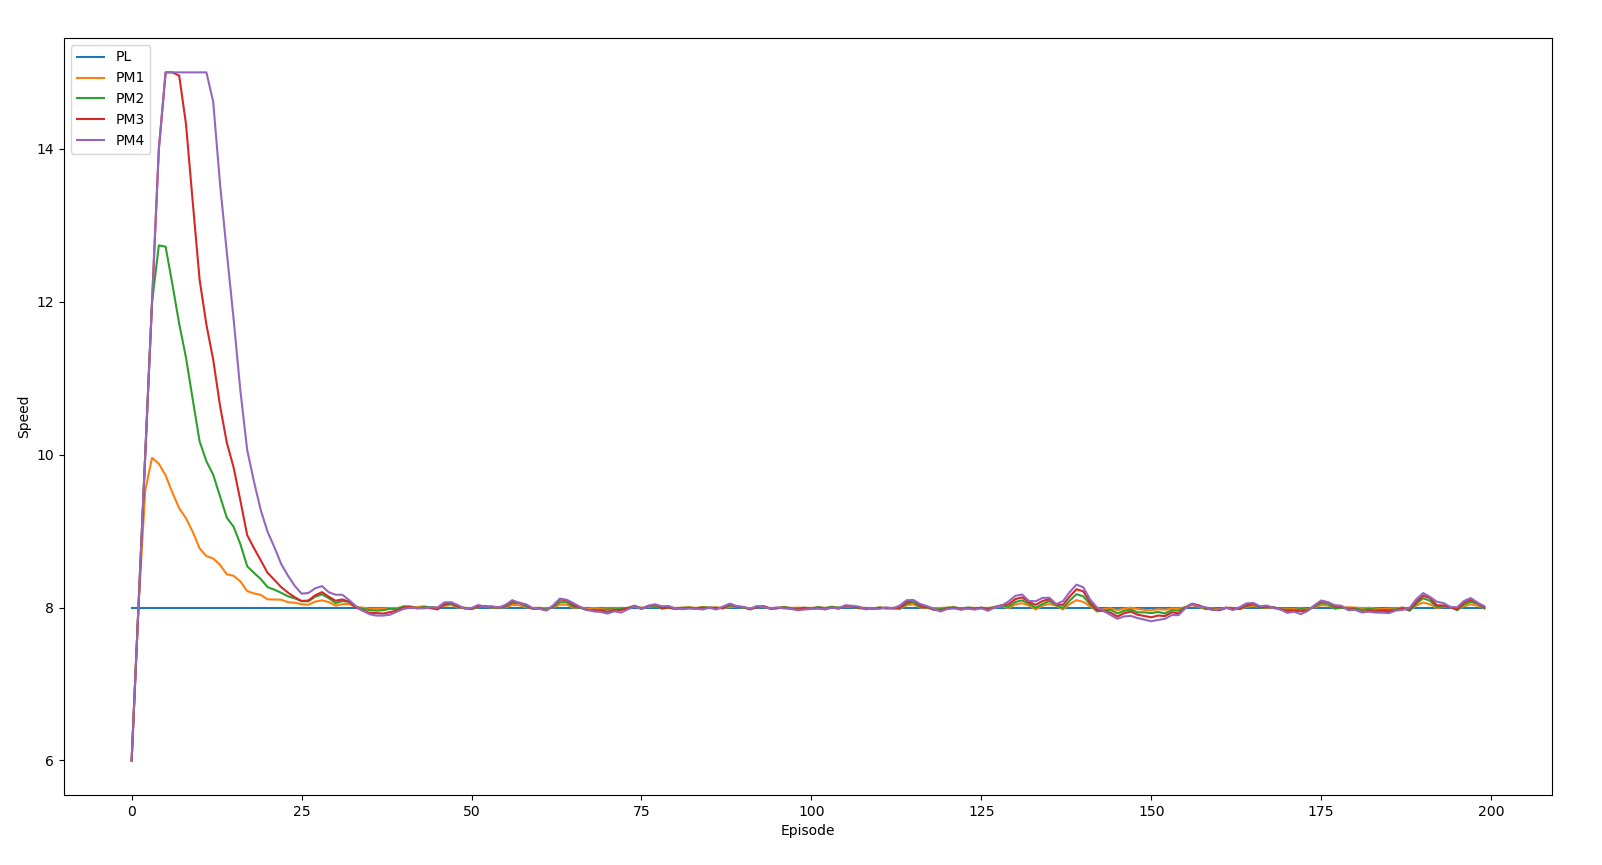
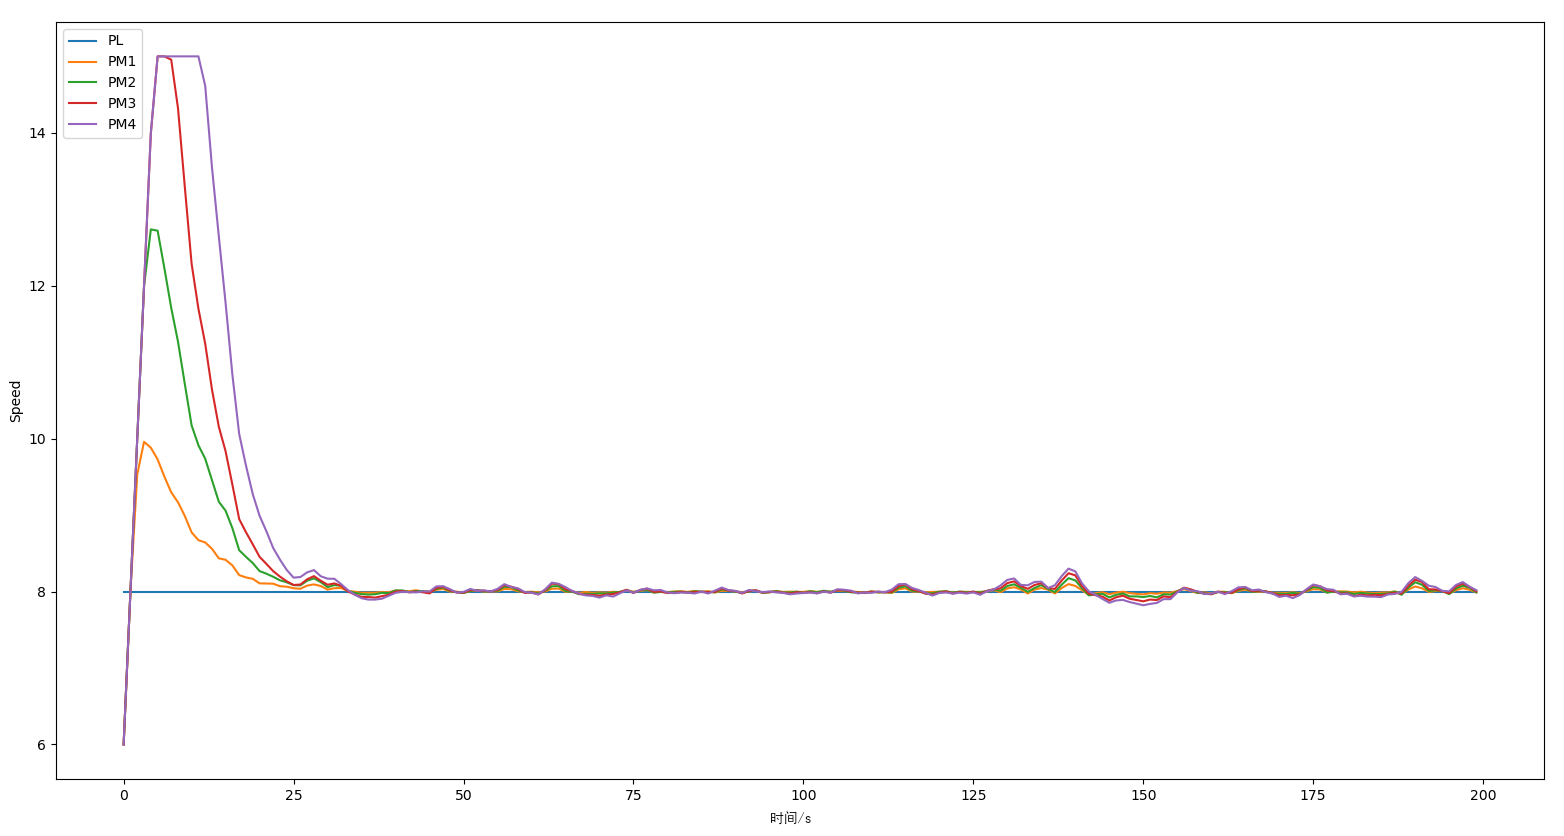
1

Changed region(s): [[0.0307, 0.0311, 0.9514, 0.8708], [0.0307, 0.8708, 0.9821, 0.9952], [0.0, 0.4665, 0.0307, 0.5287]]

diff --git a/DDPG_Net.py b/DDPG_Net.py
@@ -11,7 +11,7 @@ tf.set_random_seed(1)
 
 #####################  hyper parameters  ####################
 
-MAX_EPISODES = 500
+MAX_EPISODES = 1000
 MAX_EP_STEPS = 200
 LR_A = 0.001    # learning rate for actor
 LR_C = 0.001    # learning rate for critic
@@ -263,7 +263,7 @@ for i in range(MAX_EPISODES):
         # Add exploration noise
 
         # 第一队辆车
-        Env1.vl = random.uniform(9,12)
+        # Env1.vl = random.uniform(9,12)
         a1 = actor.choose_action(s1)
         a1 = np.clip(np.random.normal(a1, var), -2, 2)    # add randomness to action selection for exploration
         s1, r1, done1 = PreCar(a1,s1,Env1)
@@ -272,12 +272,12 @@ for i in range(MAX_EPISODES):
         # if j == MAX_EP_STEPS-1 or done1:
             # print("ENV1"'Episode:', i, ' Reward: %i' % int(ep_reward[0]/j), 'Explore: %.2f' % var, 'step: ',j,'speed: ',Env1.vm,'observation: ',Env1.observation)
             break
-        if i == 499:
+        if i == 999:
             position_step[0].append(Env1.pl)
             speed_step[0].append(Env1.vl)
             position_step[1].append(Env1.pm)
             speed_step[1].append(Env1.vm)
-        if i == 499:
+        if i == 999:
             position_step[2].append(Env2.pm)
             speed_step[2].append(Env2.vm)
         # 第二队辆车
@@ -292,7 +292,7 @@ for i in range(MAX_EPISODES):
             # print('Episode:', i, ' Reward: %i' % int(ep_reward[1]/j), 'Explore: %.2f' % var, 'step: ',j,'speed: ',
             #       Env2.vm,'observation: ',Env2.observation)
             break
-        if i == 499:
+        if i == 999:
             position_step[3].append(Env3.pm)
             speed_step[3].append(Env3.vm)
         # 第三队辆车
@@ -307,7 +307,7 @@ for i in range(MAX_EPISODES):
         #     print('Episode:', i, ' Reward: %i' % int(ep_reward[2] / j), 'Explore: %.2f' % var, 'step: ', j, 'speed: ',
         #           Env3.vm, 'observation: ', Env3.observation)
             break
-        if i == 499:
+        if i == 999:
             position_step[4].append(Env4.pm)
             speed_step[4].append(Env4.vm)
         # 第四队辆车
@@ -326,7 +326,8 @@ for i in range(MAX_EPISODES):
     # if i % 10 == 0:
     #     reward.append(ep_reward/j)
 
-
+plt.rcParams['font.sans-serif'] = [u'SimHei']
+plt.rcParams['axes.unicode_minus'] = False
 plt.plot(np.arange(len(position_step[0])), position_step[0])
 plt.plot(np.arange(len(position_step[1])), position_step[1])
 plt.plot(np.arange(len(position_step[2])), position_step[2])
@@ -334,7 +335,7 @@ plt.plot(np.arange(len(position_step[3])), position_step[3])
 plt.plot(np.arange(len(position_step[4])), position_step[4])
 plt.legend(['PL','PM1','PM2','PM3','PM4'], loc = 'upper left')
 plt.ylabel("Position")
-plt.xlabel("Episode")
+plt.xlabel("时间/s")
 plt.show()
 
 
@@ -345,7 +346,7 @@ plt.plot(np.arange(len(speed_step[3])), speed_step[3])
 plt.plot(np.arange(len(speed_step[4])), speed_step[4])
 plt.legend(['PL','PM1','PM2','PM3','PM4'], loc = 'upper left')
 plt.ylabel("Speed")
-plt.xlabel("Episode")
+plt.xlabel("时间/s")
 plt.show()
 
 # plt.plot(np.arange(len(reward)),reward)

diff --git a/DDPG_env3.py b/DDPG_env3.py
@@ -258,9 +258,9 @@ for i in range(MAX_EPISODES):
         a = np.clip(np.random.normal(a, var), -2, 2)    # add randomness to action selection for exploration
         s_, r, done = Env.step(a)
         s_ = np.array(s_)
-        if i == 1724:
-            target_step.append(Env.target)
-            actual_step.append(Env.target + s_[0])
+        # if i == 1724:
+        #     target_step.append(Env.target)
+        #     actual_step.append(Env.target + s_[0])
         M.store_transition(s, a, r / 10, s_)
         if M.pointer > MEMORY_CAPACITY:
             var *= .9999    # decay the action randomness
@@ -271,9 +271,9 @@ for i in range(MAX_EPISODES):
             b_s_ = b_M[:, -state_dim:]
             critic.learn(b_s, b_a, b_r, b_s_)
             actor.learn(b_s)
-        # if i == 999:
-        #     reward_step.append(r)
-        #     speed_step.append(s[1])
+        if i == 999:
+            reward_step.append(r)
+            speed_step.append(s[1])
         s = s_
         # print(Env.pl,s)
         ep_reward += r
@@ -289,12 +289,12 @@ plt.rcParams['axes.unicode_minus'] = False
 # plt.ylabel("Reward")
 # plt.xlabel("Episode")
 # plt.show()
-plt.plot(np.arange(len(target_step)),target_step)
-plt.plot(np.arange(len(actual_step)),actual_step)
-plt.legend(["期望车距","实际车距"],loc = "upper left")
-plt.ylabel("距离/m")
-plt.xlabel("时间/s")
-plt.show()
+# plt.plot(np.arange(len(target_step)),target_step)
+# plt.plot(np.arange(len(actual_step)),actual_step)
+# plt.legend(["期望车距","实际车距"],loc = "upper left")
+# plt.ylabel("距离/m")
+# plt.xlabel("时间/s")
+# plt.show()
 # plt.plot(np.arange(len(reward_step)),reward_step)
 # plt.ylabel("Reward For Each Step")
 # plt.xlabel("Step")

diff --git a/DDPG.py b/DDPG.py
@@ -32,7 +32,6 @@ REPLACEMENT = [
 ][0]            # you can try different target replacement strategies
 MEMORY_CAPACITY = 10000
 BATCH_SIZE = 32
-
 RENDER = False
 OUTPUT_GRAPH = False
 
